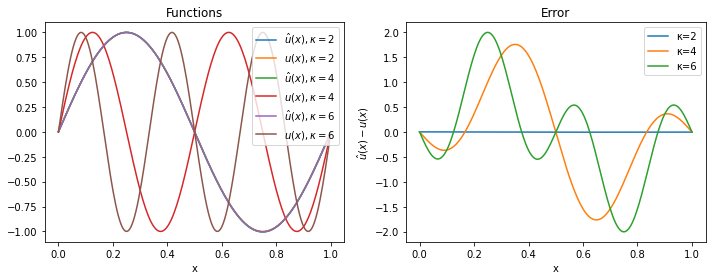
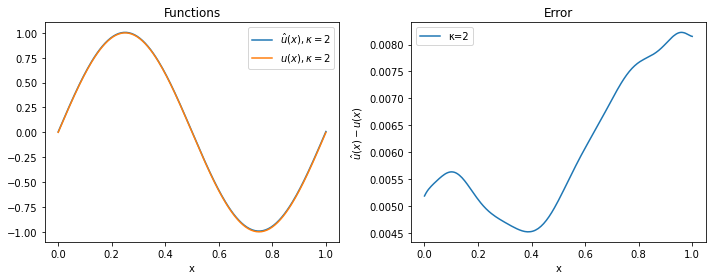
small fixes

diff --git a/_posts/2021-03-07-laplacian.md b/_posts/2021-03-07-laplacian.md
@@ -164,12 +164,12 @@ def solve(model, num_points, num_epochs, lr, κ, λ, print_every=None):
             print(epoch + 1, history[-1])
         with torch.no_grad():
             u_approx_sample = model(x_sample).detach().flatten().numpy()
-            errors.append(abs(u_approx_sample - u_exact_sample).max())
+            errors.append(abs(u_approx_sample - u_exact_sample).mean())
     
     return history, errors
 ```
 
-We use $\kappa={2, 4, 6}$, and adapt the learning rate to the value of $\kappa$ to avoid divergence.
+We use $\kappa={2, 4, 8}$. After a small hyperparameter optimization, the learning rate is set to 0.001 for all values of $\kappa$.
 
 
 ```python
@@ -180,25 +180,27 @@ history_2, errors_2 = solve(model_2, num_points, num_epochs, lr=0.001, κ=2, λ=
 
 ```python
 model_4 = Model()
-history_4, errors_4 = solve(model_4, num_points, num_epochs, lr=0.001, κ=4, λ=λ, print_every=1_000)
+history_4, errors_4 = solve(model_4, num_points, num_epochs, lr=0.001, κ=4, λ=λ)
 ```
 
 
 ```python
-model_6 = Model()
-history_6, errors_6 = solve(model_6, num_points, num_epochs, lr=0.00001, κ=6, λ=λ)
+model_8 = Model()
+history_8, errors_8 = solve(model_8, num_points, num_epochs, lr=0.001, κ=8, λ=λ)
 ```
+
+It is not straightforward to compare the problems, however the graphs below show some interesting phenomena. Looking at the loss function, we see a small plateau at the beginning, which gets longer as $\kappa$ grows. For $\kappa=1$, it seems that about one thousand iterations suffice (after that, the optimizer stagnates); for $\kappa=2$, it takes about two thousand iterations to stagnate, while $\kappa=8$ hasn't converged at all, as we will see below.
 
 
 ```python
 fig, (ax0, ax1) = plt.subplots(figsize=(10, 4), ncols=2)
-for history, κ in [(history_2, 2), (history_4, 4), (history_6, 6)]:
+for history, κ in [(history_2, 2), (history_4, 4), (history_8, 8)]:
     ax0.semilogy(history, label=f'κ={κ}')
 ax0.grid()
 ax0.set_xlabel('Epoch')
 ax0.set_ylabel('Loss')
 ax0.legend()
-for errors, κ in [(errors_2, 2), (errors_4, 4), (errors_6, 6)]:
+for errors, κ in [(errors_2, 2), (errors_4, 4), (errors_8, 8)]:
     ax1.semilogy(errors, label=f'κ={κ}')
 ax1.grid()
 ax1.set_xlabel('Epoch')
@@ -213,26 +215,31 @@ fig.tight_layout()
     
 
 
-The approximation is quite good for small values of $\kappa$, and gets worse as $\kappa$ increases. We could have used more epochs
-
 
 ```python
-fig, (ax0, ax1) = plt.subplots(figsize=(10, 4), ncols=2)
-x_unif = torch.linspace(0, 1, 201).unsqueeze(-1)
-for model, κ in [(model_2, 2), (model_4, 4), (model_6, 6)]:
-    y_approx = model_2(x_unif).detach().numpy()
+def plot(model, κ):
+    fig, (ax0, ax1) = plt.subplots(figsize=(10, 4), ncols=2)
+    x_unif = torch.linspace(0, 1, 201).unsqueeze(-1)
+    y_approx = model(x_unif).detach().numpy()
     ax0.plot(x_unif.numpy(), y_approx, label=r'$\hat{u}(x), \kappa=' + str(κ) + '$')
     y_exact = exact_solution(x_unif, κ).numpy()
     ax0.plot(x_unif.numpy(), y_exact, label=r'$u(x), \kappa=' + str(κ) + '$')
     ax1.plot(x_unif.numpy(), y_approx - y_exact, label=f'κ={κ}')
-ax0.set_xlabel('x')
-ax0.legend(loc='upper right')
-ax0.set_title('Functions')
-ax1.set_xlabel('x')
-ax1.set_ylabel(r'$\hat{u}(x) - u(x)$')
-ax1.set_title('Error')
-ax1.legend()
-fig.tight_layout()
+    ax0.set_xlabel('x')
+    ax0.legend(loc='upper right')
+    ax0.set_title('Functions')
+    ax1.set_xlabel('x')
+    ax1.set_ylabel(r'$\hat{u}(x) - u(x)$')
+    ax1.set_title('Error')
+    ax1.legend()
+    fig.tight_layout()
+```
+
+For $\kappa=2$ and $\kappa=4$, the approximation is quite good, while for $\kappa=8$ the solver has clearly not managed to provide a reasonable solution (even if more iterations or a smaller learning rate would probably solve the problem).
+
+
+```python
+plot(model_2, 2)
 ```
 
 
@@ -242,28 +249,25 @@ fig.tight_layout()
 
 
 
-In general, because of the F-principle, PINNs converge quickly to the low frequencies of the solution; the convergence to the high frequencies is slow and requires many more epochs, as we have seen. Because of this, PINNs tend to be of limited usage when the application requires highly accurate solutions that contain high frequency modes.
-
-
 ```python
-
+plot(model_4, 4)
 ```
 
 
-```python
+    
+![png](/assets/images/laplacian/laplacian-3.png)
+    
 
-```
-
-https://towardsdatascience.com/how-to-solve-an-ode-with-a-neural-network-917d11918932
-
-https://cloud4scieng.org/2020/06/10/notes-on-deep-learning-and-differential-equations/
 
 
 ```python
-
+plot(model_8, 8)
 ```
 
 
-```python
+    
+![png](/assets/images/laplacian/laplacian-4.png)
+    
 
-```
+
+These results show that, because of the F-principle, PINNs converge quickly to the low frequencies of the solution; the convergence to the high frequencies is slow and requires many more epochs, as we have seen. Because of this, PINNs tend to be of limited usage when the application requires highly accurate solutions that contain high frequency modes.
